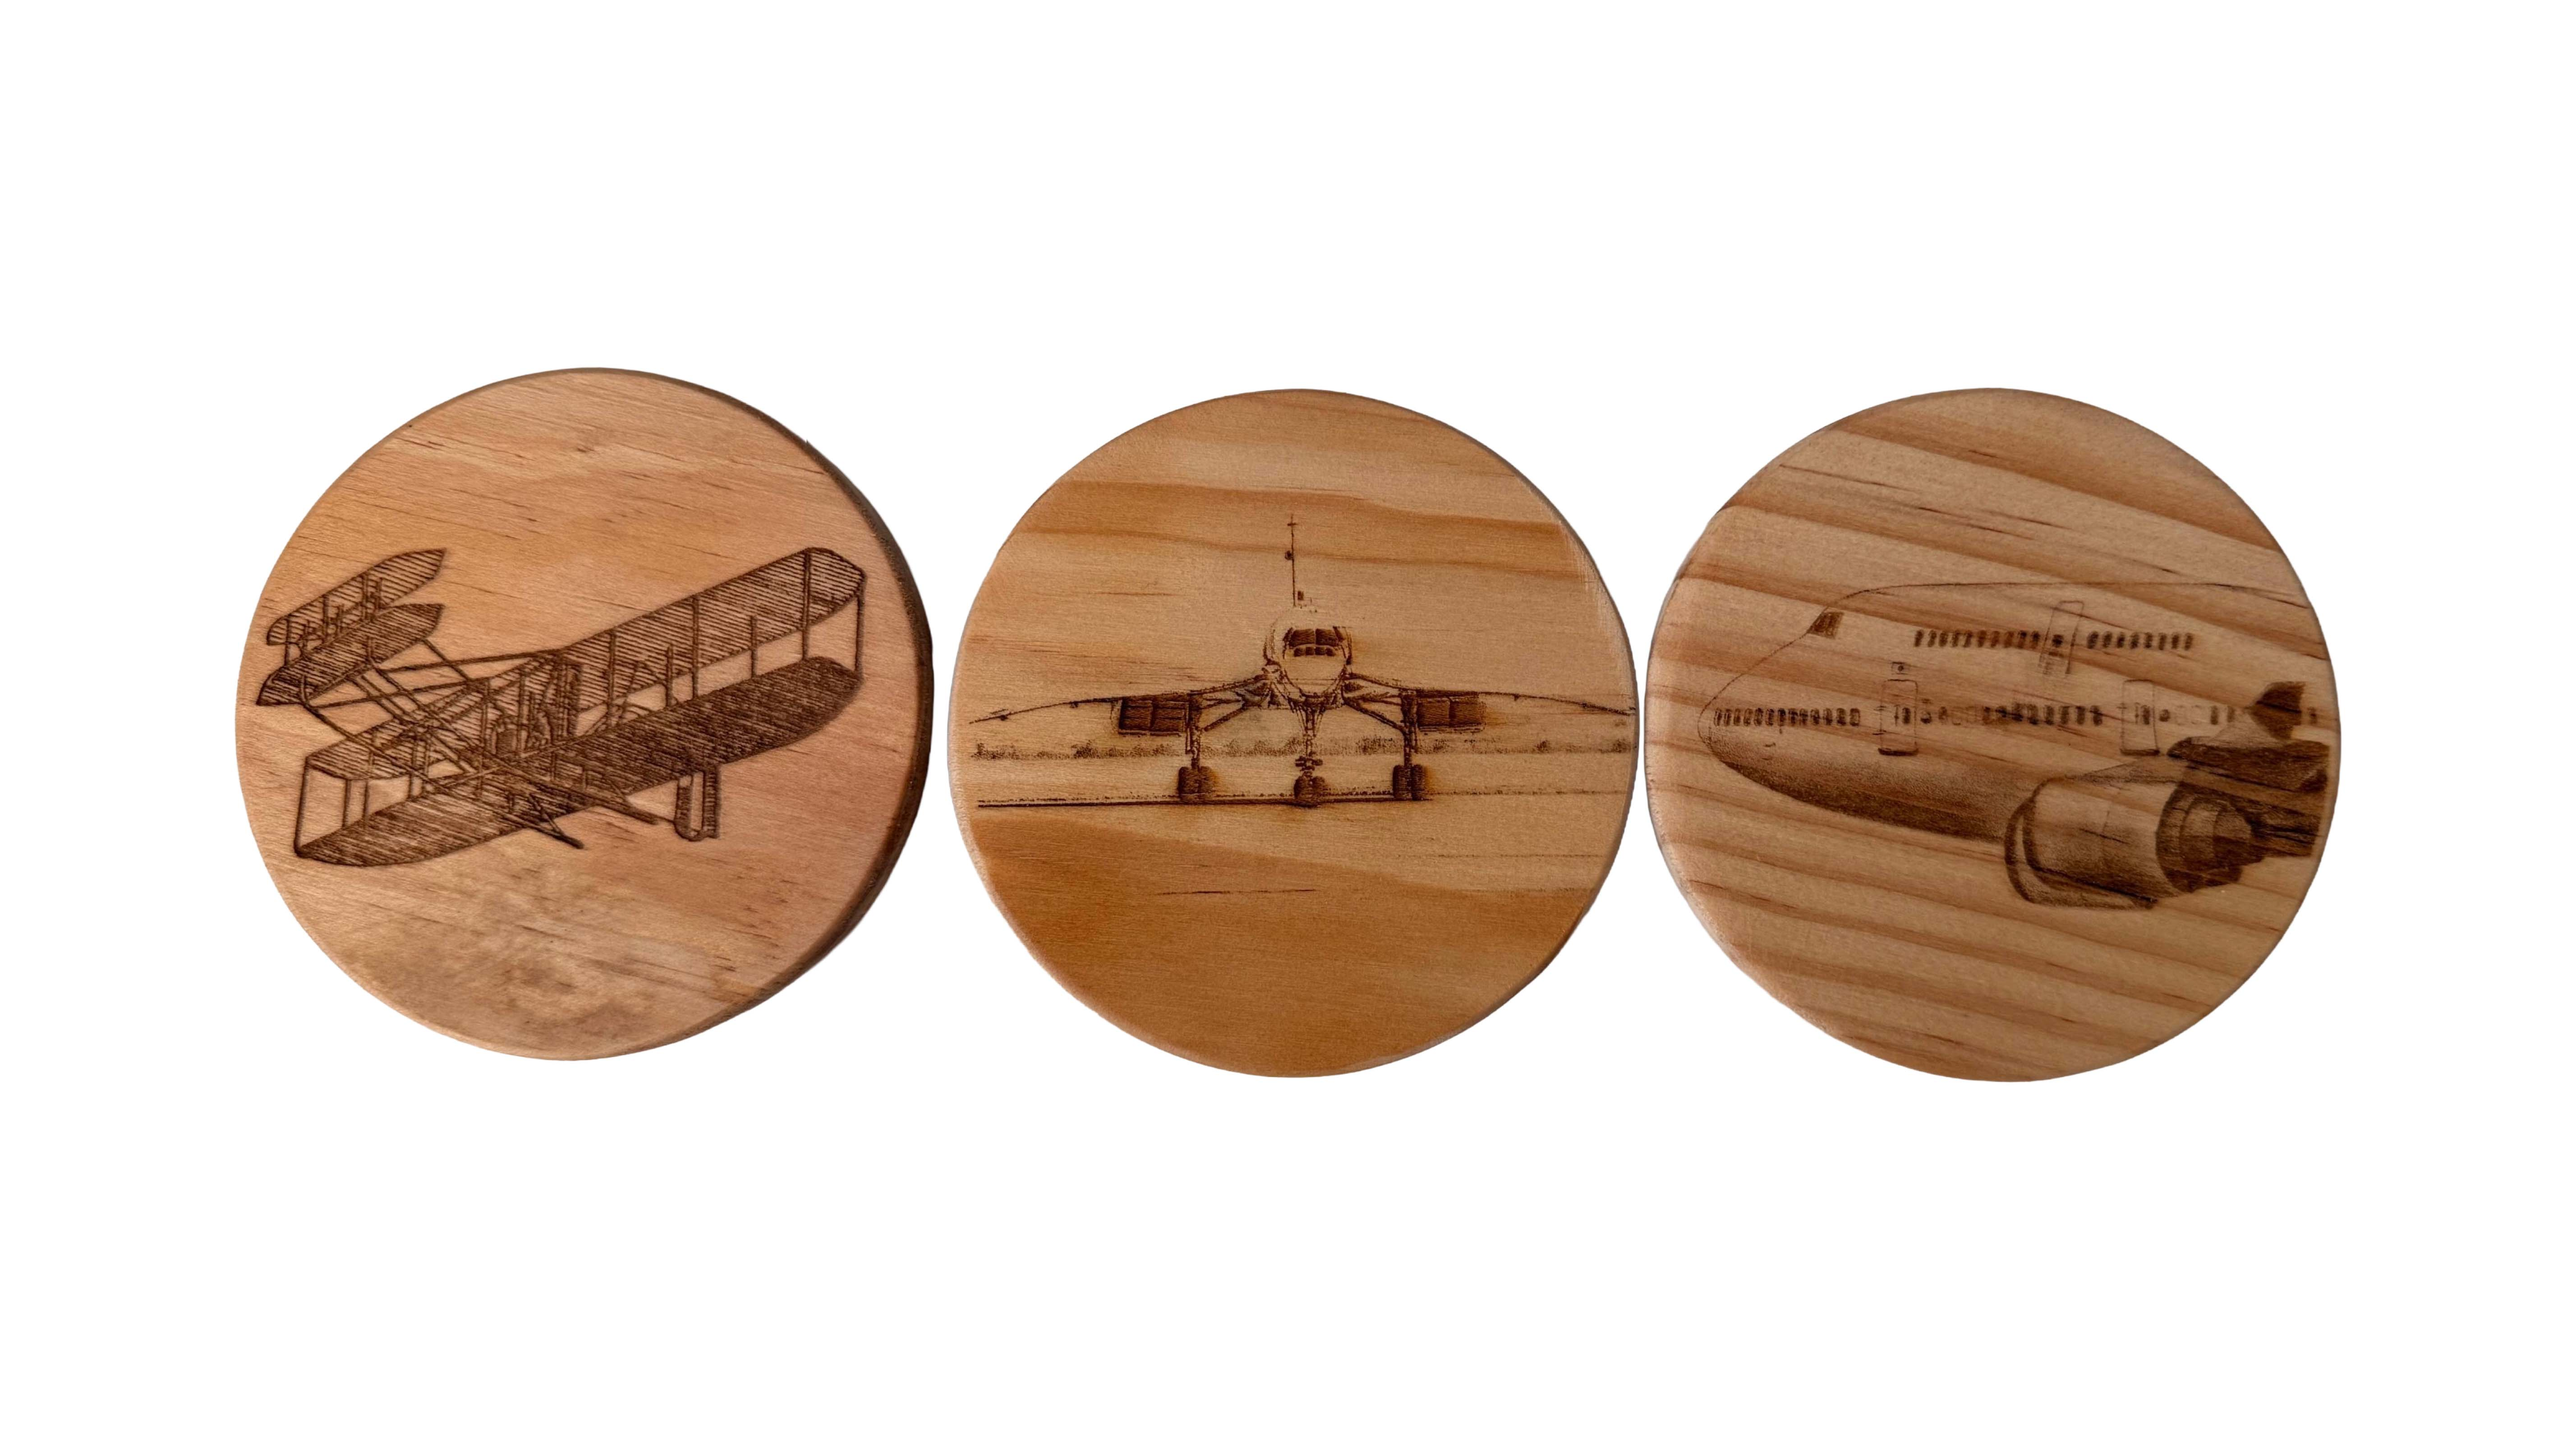
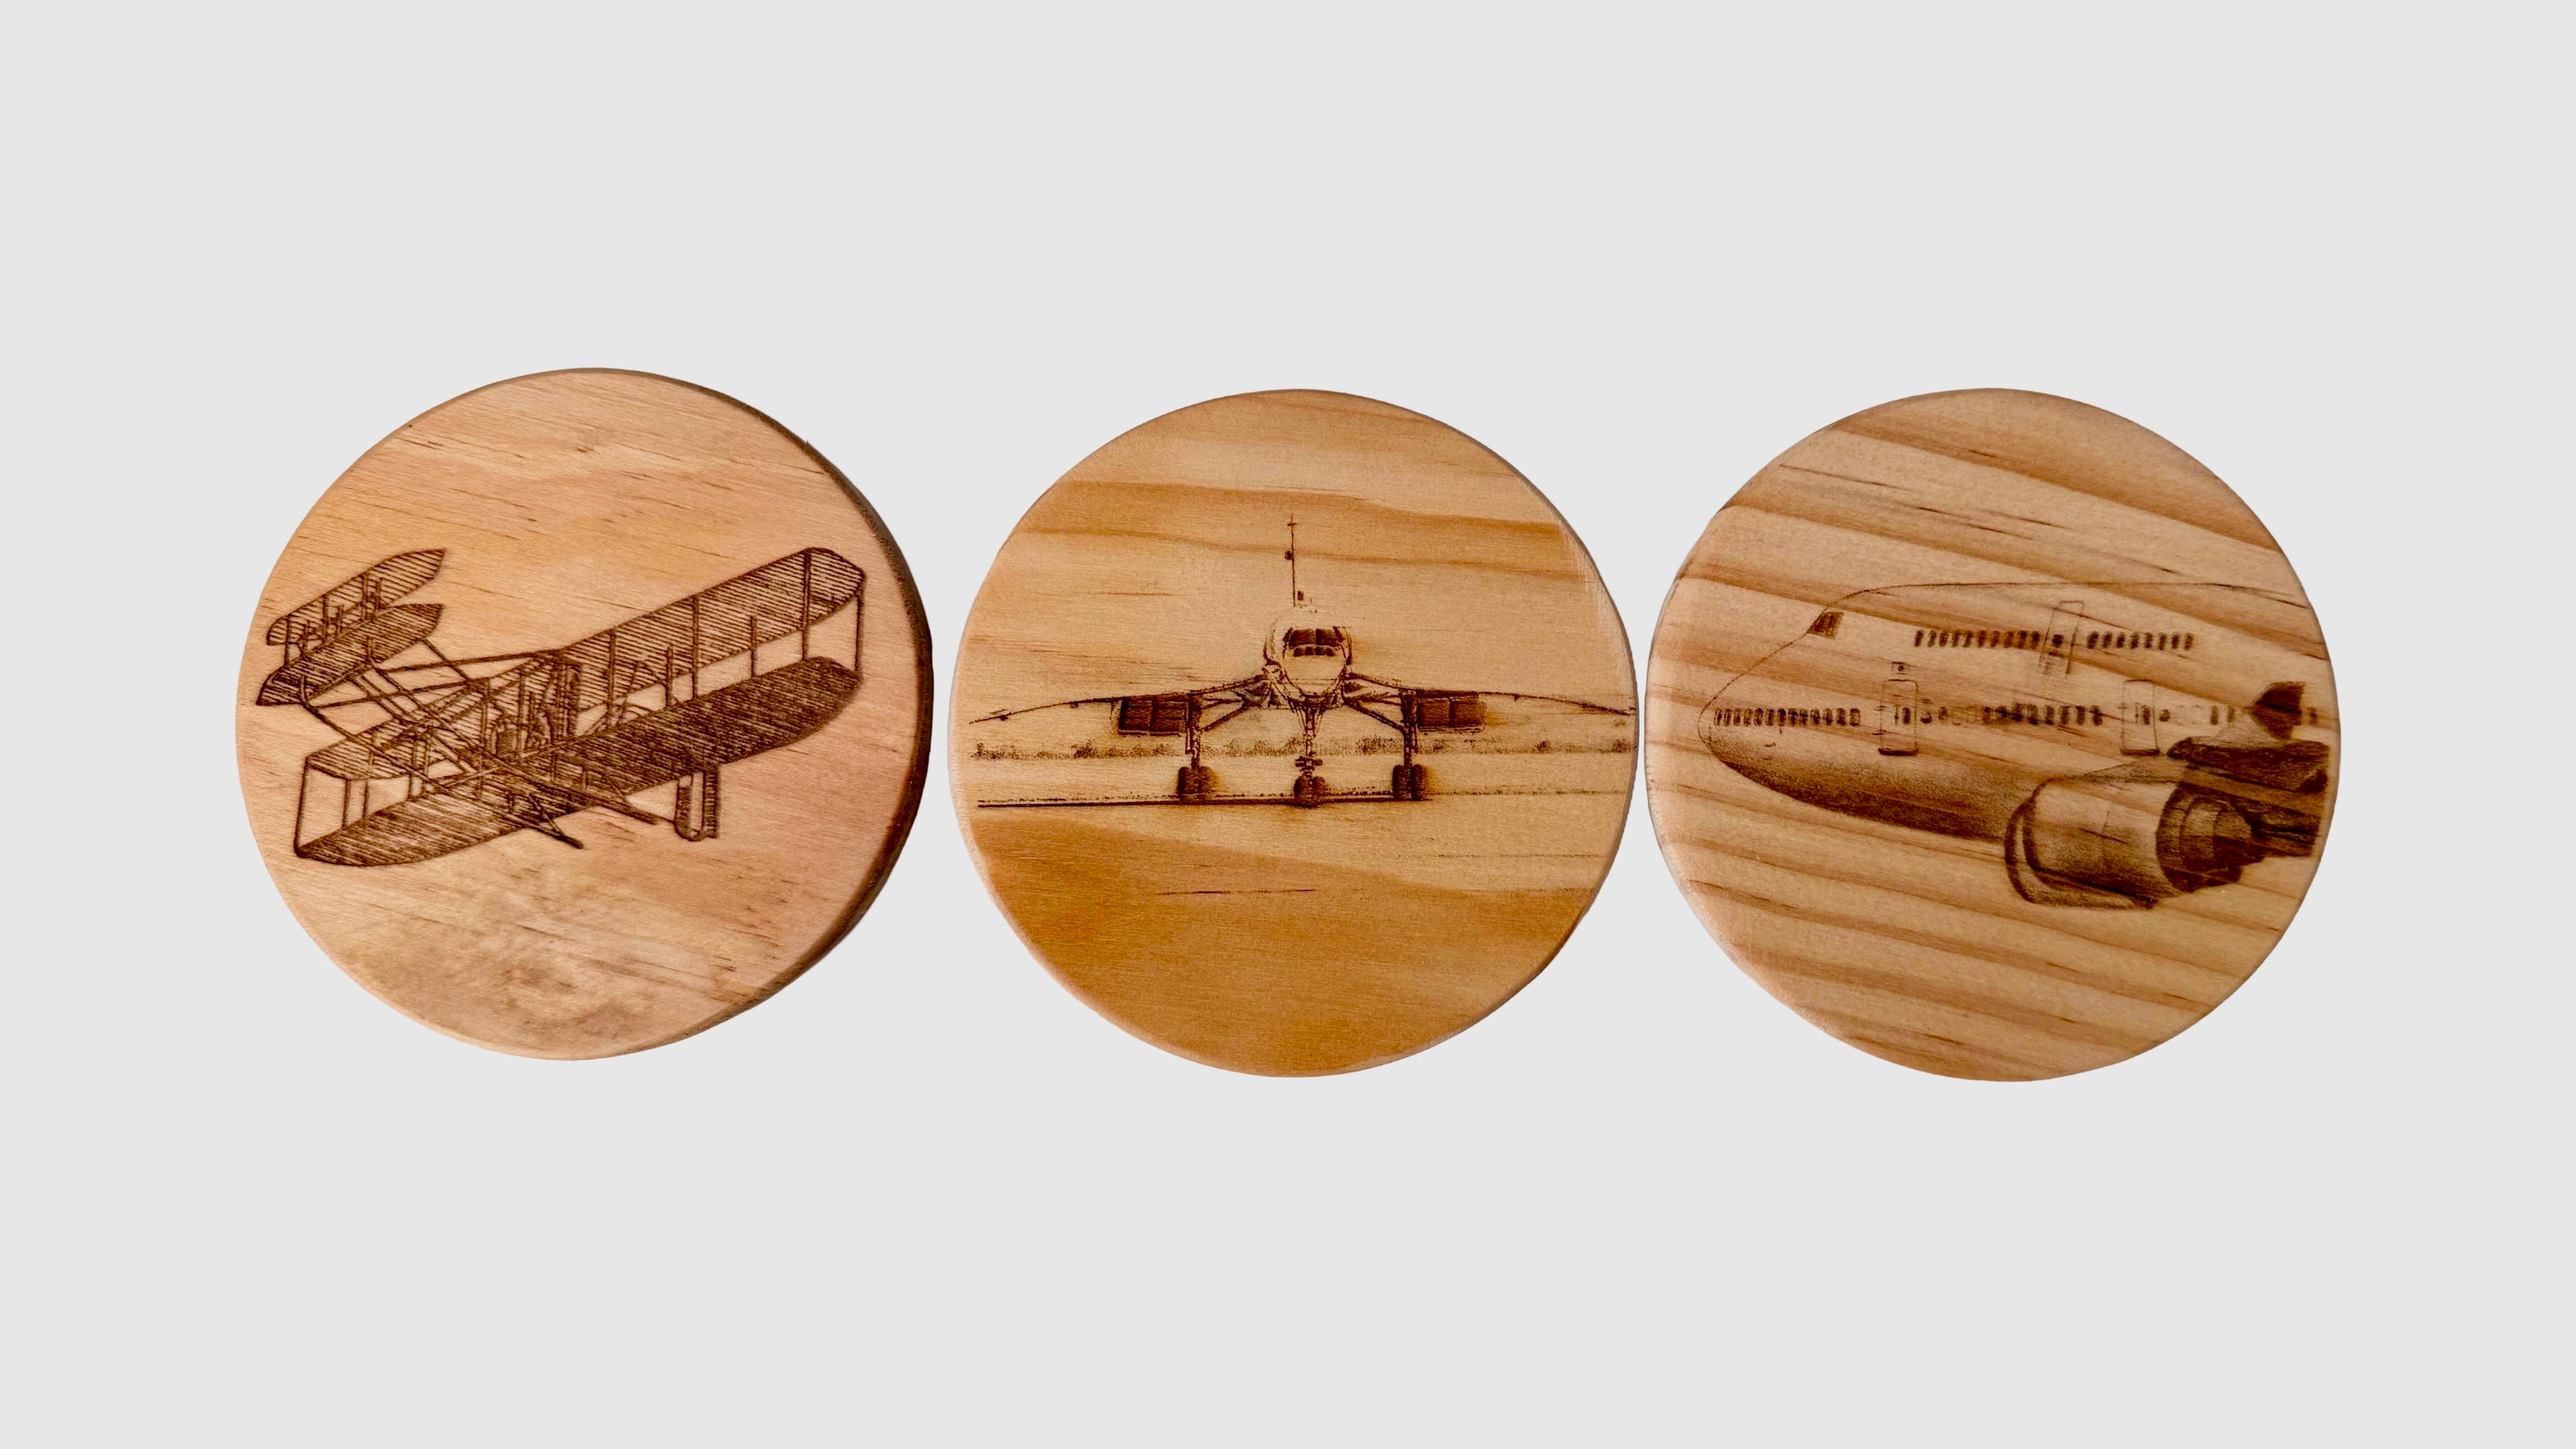
small edits - compressed images, etc

Changed region(s): [[0.0935, 0.2801, 0.9349, 0.747]]

diff --git a/landmarks of aviation.html b/landmarks of aviation.html
@@ -107,7 +107,7 @@ Beyond how they look, they’re built to be used. Every coaster is sealed with a
 <br>
 This isn’t just a coaster set. It’s a small tribute to progress—from the first powered flight to supersonic travel.
 <br><br>
-Why this set stands out:<br>
+<strong>Why this set stands out:</strong><br>
 	•	Three legendary aircraft – Wright Flyer, 747-400, and Concorde<br>
 	•	Meaningful design – represents the full evolution of flight<br>
 	•	Clean, detailed engraving – sharp lines that don’t fade into the wood<br>
